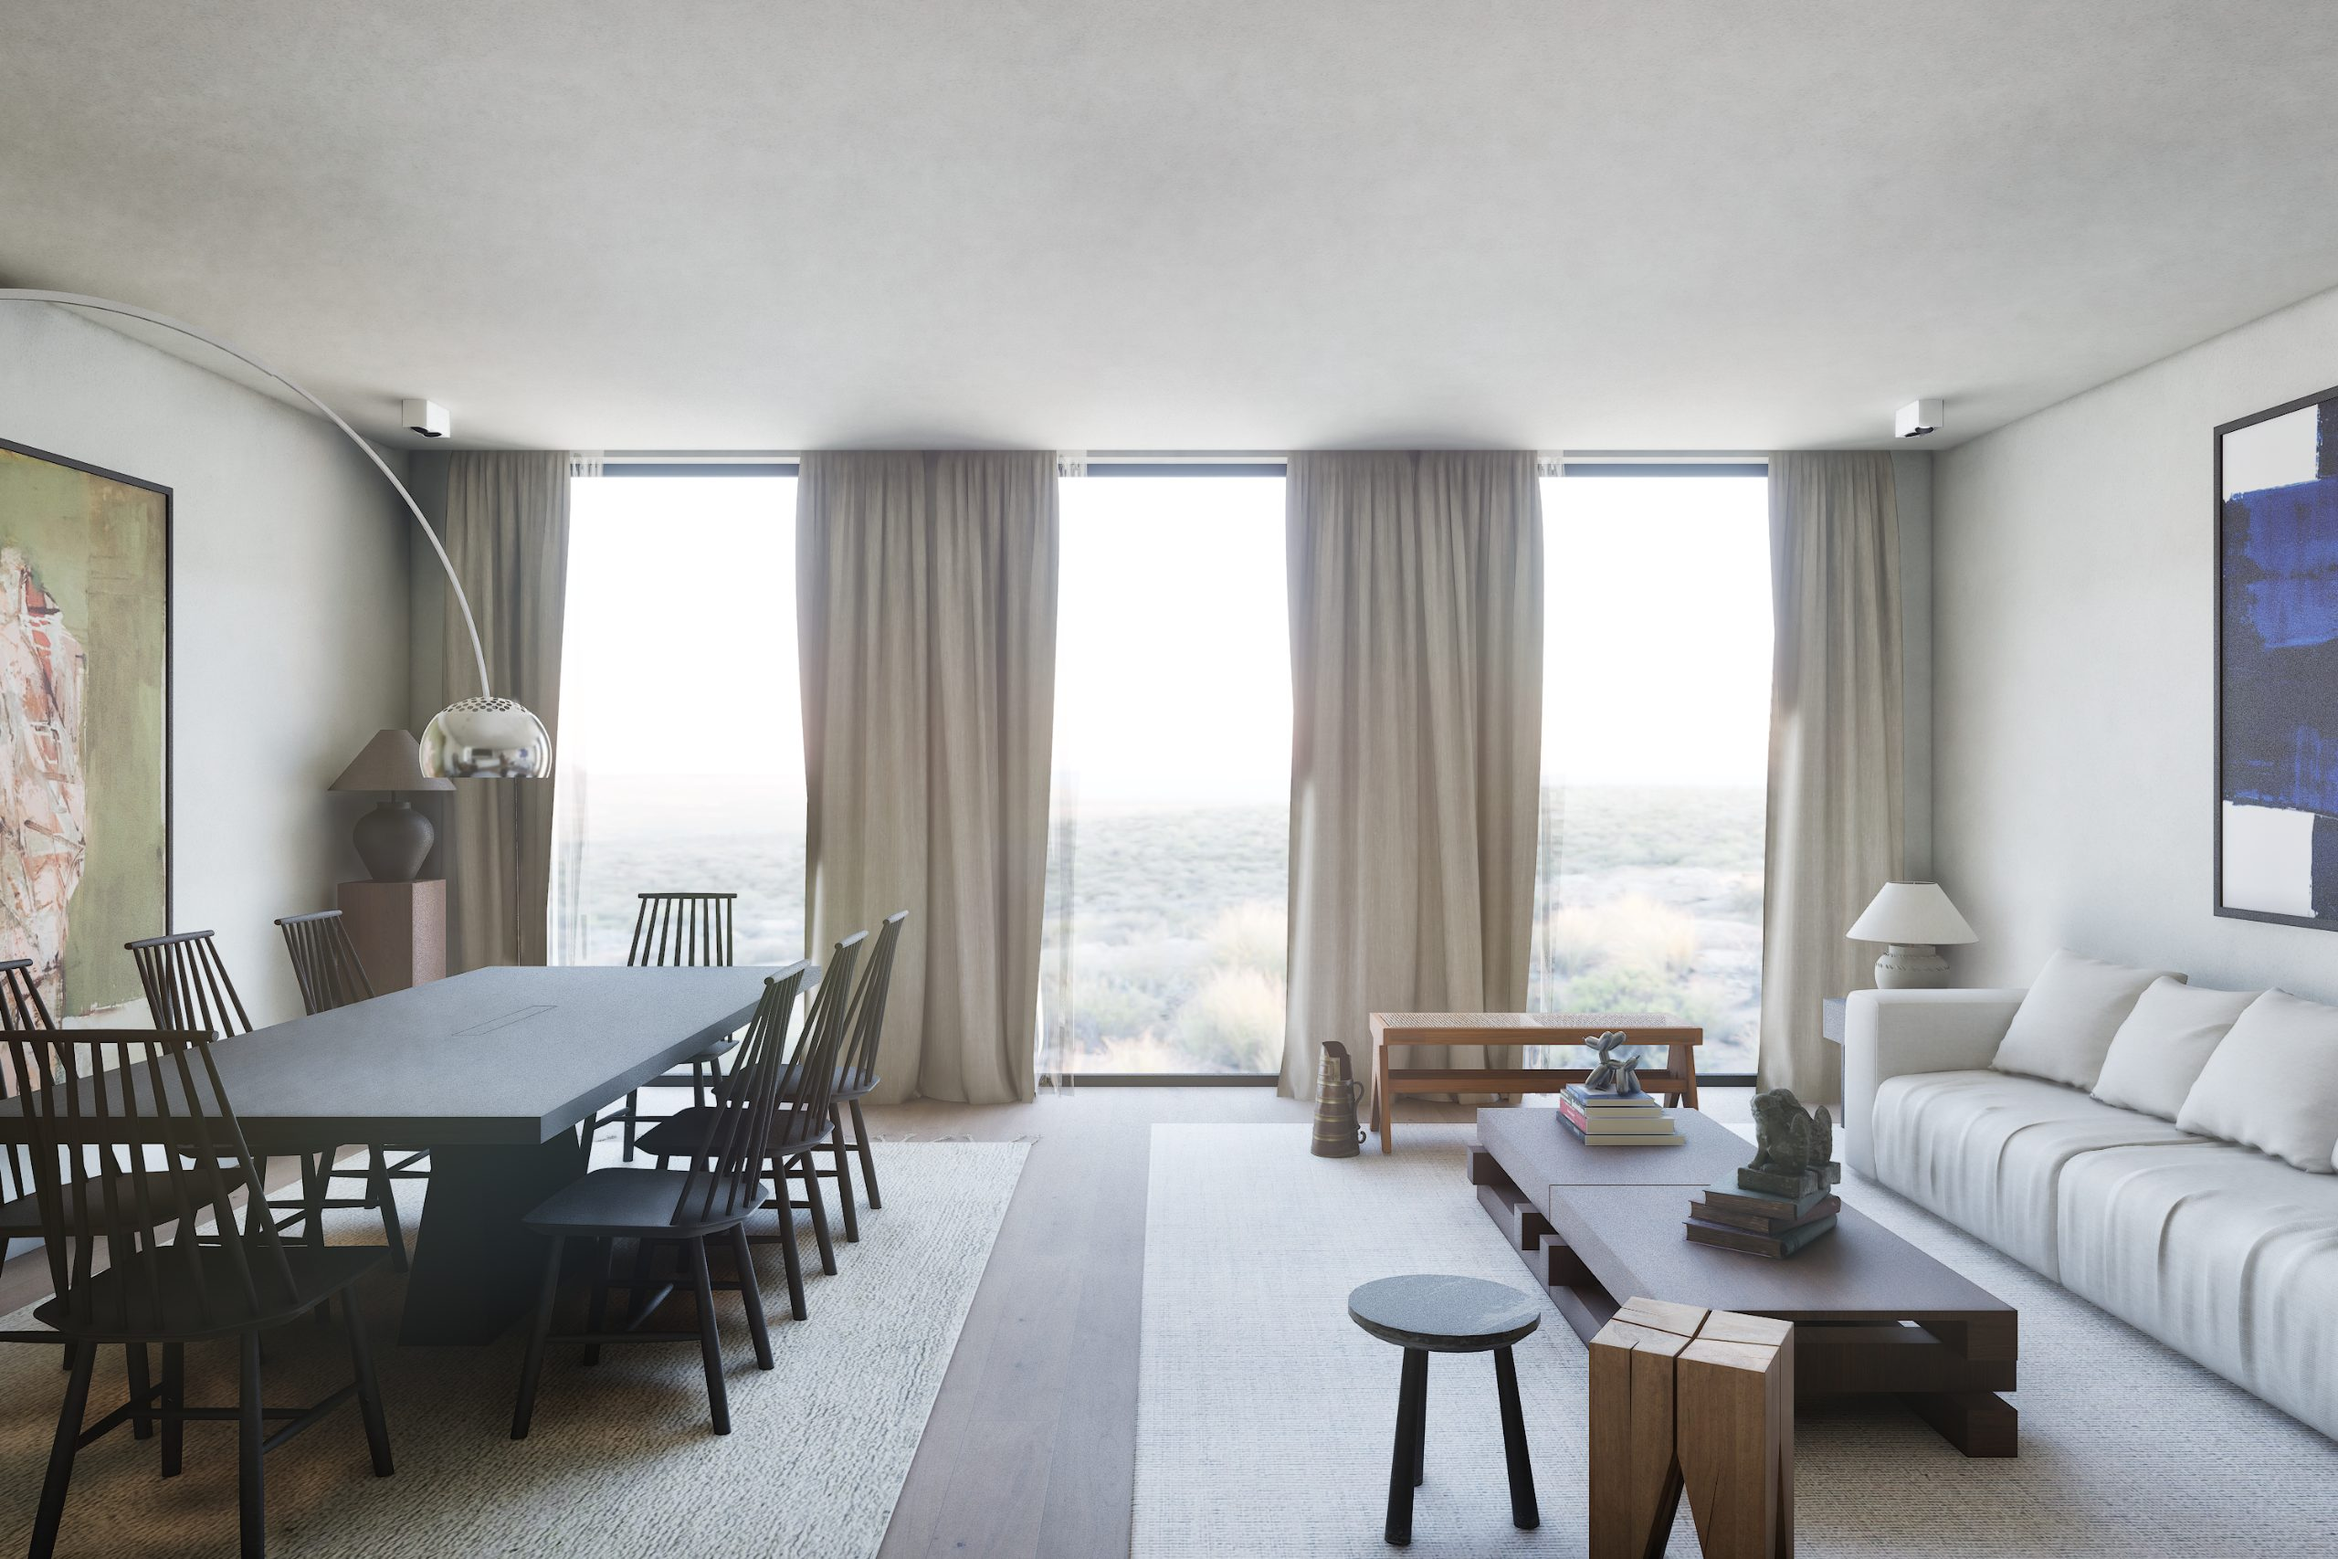
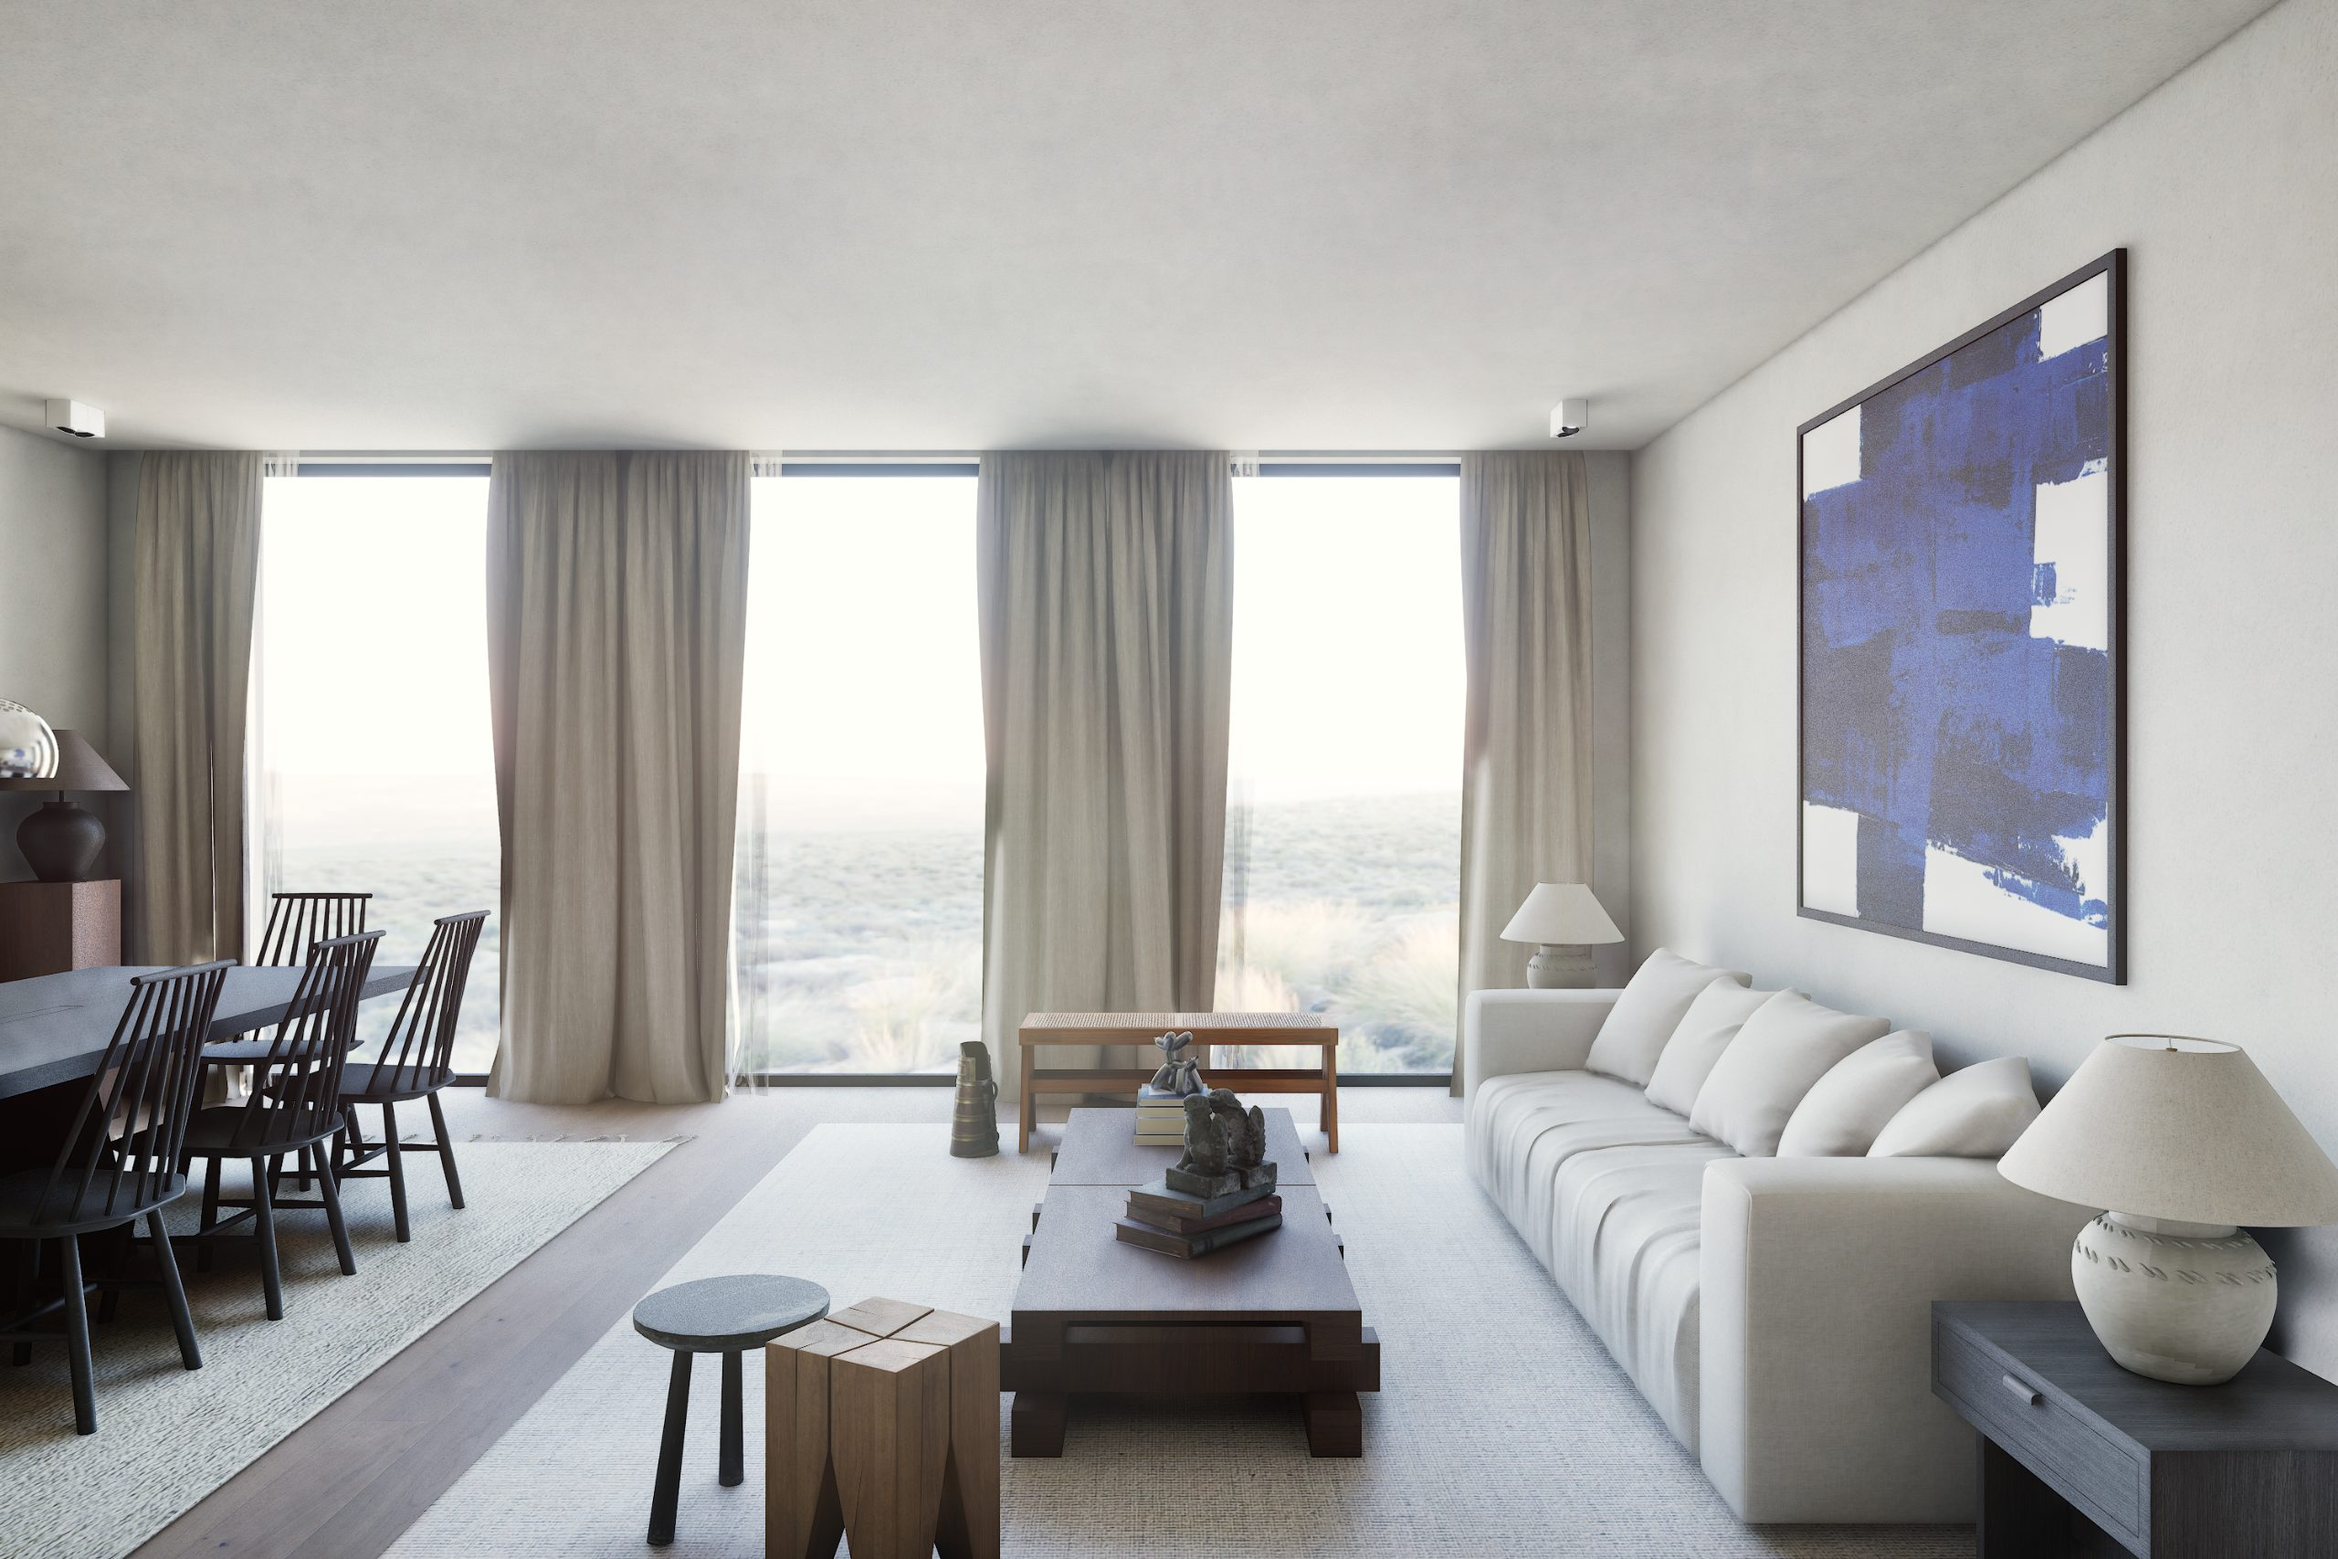
Add files via upload

diff --git a/en/work/ger.html b/en/work/ger.html
@@ -171,7 +171,7 @@
 
 <header class="proj-hero" data-screen-label="Ger, hero">
   <div class="frame">
-    <img src="../../images/ger-01.jpg" alt="Ger, dining table and lounge before floor-to-ceiling windows overlooking the landscape" loading="eager" fetchpriority="high" />
+    <img src="../../images/ger-01.jpg" alt="Ger, lounge and dining before floor-to-ceiling windows overlooking the landscape" loading="eager" fetchpriority="high" />
   </div>
   <div class="proj-hero__scrim"></div>
   <div class="proj-hero__cap">
@@ -203,26 +203,25 @@
 
   <section class="shell gallery">
     <div class="reveal">
-      <div class="frame g-full"><img src="../../images/ger-02.jpg" alt="Lounge with white sofa, solid timber coffee table and linen curtains" loading="lazy" /></div>
+      <div class="frame g-full"><img src="../../images/ger-02.jpg" alt="Lounge, frontal view, blue painting above the sofa, cane bench by the window" loading="lazy" /></div>
     </div>
     <div class="g-pair">
-      <div class="reveal"><div class="frame"><img src="../../images/ger-10.jpg" alt="Blue painting above the sofa, cane bench by the window" loading="lazy" /></div></div>
-      <div class="reveal d1"><div class="frame"><img src="../../images/ger-11.jpg" alt="Dark timber side table with ceramic lamp beside the sofa" loading="lazy" /></div></div>
+      <div class="reveal"><div class="frame"><img src="../../images/ger-06.jpg" alt="Dining table with black spindle chairs and arc lamp before a green painting" loading="lazy" /></div></div>
+      <div class="reveal d1"><div class="frame"><img src="../../images/ger-09.jpg" alt="Lounge seen at an angle from the side, blue painting above the sofa and light from the window" loading="lazy" /></div></div>
     </div>
     <div class="reveal">
-      <div class="frame g-full"><img src="../../images/ger-03.jpg" alt="Kitchen with island in pale travertine and tall cabinets in smoked oak" loading="lazy" /></div>
-    </div>
-    <div class="g-trio">
-      <div class="reveal"><div class="frame"><img src="../../images/ger-05.jpg" alt="Travertine island in front of the smoked oak cabinet wall" loading="lazy" /></div></div>
-      <div class="reveal d1"><div class="frame"><img src="../../images/ger-06.jpg" alt="Detail of the travertine sink with curved brushed steel tap" loading="lazy" /></div></div>
-      <div class="reveal d2"><div class="frame"><img src="../../images/ger-08.jpg" alt="Travertine island with cane chair and terracotta jars" loading="lazy" /></div></div>
-    </div>
-    <div class="reveal">
-      <div class="frame g-full"><img src="../../images/ger-04.jpg" alt="Lounge, frontal view, blue painting above the sofa" loading="lazy" /></div>
+      <div class="frame g-full"><img src="../../images/ger-03.jpg" alt="Kitchen, frontal view, with pale travertine island and tall smoked oak cabinets" loading="lazy" /></div>
     </div>
     <div class="g-pair">
-      <div class="reveal"><div class="frame"><img src="../../images/ger-07.jpg" alt="View from the coffee table towards the kitchen" loading="lazy" /></div></div>
-      <div class="reveal d1"><div class="frame"><img src="../../images/ger-09.jpg" alt="Dining table with black spindle chairs and arc lamp before a green painting" loading="lazy" /></div></div>
+      <div class="reveal"><div class="frame"><img src="../../images/ger-05.jpg" alt="Travertine island with tap in front of the smoked oak cabinet wall" loading="lazy" /></div></div>
+      <div class="reveal d1"><div class="frame"><img src="../../images/ger-10.jpg" alt="Travertine island looking towards the green painting and dining table" loading="lazy" /></div></div>
+    </div>
+    <div class="reveal">
+      <div class="frame g-full"><img src="../../images/ger-04.jpg" alt="Bedroom with dark oak display cabinet and linen curtains" loading="lazy" /></div>
+    </div>
+    <div class="g-pair">
+      <div class="reveal"><div class="frame"><img src="../../images/ger-08.jpg" alt="Bathroom with travertine vanity beneath a skylight" loading="lazy" /></div></div>
+      <div class="reveal d1"><div class="frame"><img src="../../images/ger-07.jpg" alt="Entrance with black and white artwork and dark oak bench" loading="lazy" /></div></div>
     </div>
   </section>
 

diff --git a/werk/ger.html b/werk/ger.html
@@ -171,7 +171,7 @@
 
 <header class="proj-hero" data-screen-label="Ger, hero">
   <div class="frame">
-    <img src="../images/ger-01.jpg" alt="Ger, eettafel en zithoek voor ramen van vloer tot plafond met zicht op het landschap" loading="eager" fetchpriority="high" />
+    <img src="../images/ger-01.jpg" alt="Ger, zithoek en eettafel voor ramen van vloer tot plafond met zicht op het landschap" loading="eager" fetchpriority="high" />
   </div>
   <div class="proj-hero__scrim"></div>
   <div class="proj-hero__cap">
@@ -203,26 +203,25 @@
 
   <section class="shell gallery">
     <div class="reveal">
-      <div class="frame g-full"><img src="../images/ger-02.jpg" alt="Zithoek met witte bank, massieve salontafel en linnen gordijnen" loading="lazy" /></div>
+      <div class="frame g-full"><img src="../images/ger-02.jpg" alt="Zithoek frontaal, blauw schilderij boven de bank, rieten bank aan het raam" loading="lazy" /></div>
     </div>
     <div class="g-pair">
-      <div class="reveal"><div class="frame"><img src="../images/ger-10.jpg" alt="Blauw schilderij boven de bank, rieten bank aan het raam" loading="lazy" /></div></div>
-      <div class="reveal d1"><div class="frame"><img src="../images/ger-11.jpg" alt="Bijzettafel in donker hout met keramieken lamp naast de bank" loading="lazy" /></div></div>
+      <div class="reveal"><div class="frame"><img src="../images/ger-06.jpg" alt="Eettafel met zwarte spijlenstoelen en booglamp voor een groen schilderij" loading="lazy" /></div></div>
+      <div class="reveal d1"><div class="frame"><img src="../images/ger-09.jpg" alt="Zithoek schuin van opzij, blauw schilderij boven de bank en licht van het raam" loading="lazy" /></div></div>
     </div>
     <div class="reveal">
-      <div class="frame g-full"><img src="../images/ger-03.jpg" alt="Keuken met eiland in licht travertijn en hoge kasten in gerookt eiken" loading="lazy" /></div>
-    </div>
-    <div class="g-trio">
-      <div class="reveal"><div class="frame"><img src="../images/ger-05.jpg" alt="Travertijnen eiland voor de kastenwand in gerookt eiken" loading="lazy" /></div></div>
-      <div class="reveal d1"><div class="frame"><img src="../images/ger-06.jpg" alt="Detail van de spoelbak in travertijn met gebogen kraan in geborsteld staal" loading="lazy" /></div></div>
-      <div class="reveal d2"><div class="frame"><img src="../images/ger-08.jpg" alt="Eiland in travertijn met rieten stoel en terracotta kruiken" loading="lazy" /></div></div>
-    </div>
-    <div class="reveal">
-      <div class="frame g-full"><img src="../images/ger-04.jpg" alt="Zithoek frontaal, blauw schilderij boven de bank" loading="lazy" /></div>
+      <div class="frame g-full"><img src="../images/ger-03.jpg" alt="Keuken frontaal met eiland in licht travertijn en hoge kasten in gerookt eiken" loading="lazy" /></div>
     </div>
     <div class="g-pair">
-      <div class="reveal"><div class="frame"><img src="../images/ger-07.jpg" alt="Doorkijk van de salontafel naar de keuken" loading="lazy" /></div></div>
-      <div class="reveal d1"><div class="frame"><img src="../images/ger-09.jpg" alt="Eettafel met zwarte spijlenstoelen en booglamp voor een groen schilderij" loading="lazy" /></div></div>
+      <div class="reveal"><div class="frame"><img src="../images/ger-05.jpg" alt="Travertijnen eiland met kraan voor de kastenwand in gerookt eiken" loading="lazy" /></div></div>
+      <div class="reveal d1"><div class="frame"><img src="../images/ger-10.jpg" alt="Travertijnen eiland met zicht op het groene schilderij en de eettafel" loading="lazy" /></div></div>
+    </div>
+    <div class="reveal">
+      <div class="frame g-full"><img src="../images/ger-04.jpg" alt="Slaapkamer met vitrinekast in donker eiken en linnen gordijnen" loading="lazy" /></div>
+    </div>
+    <div class="g-pair">
+      <div class="reveal"><div class="frame"><img src="../images/ger-08.jpg" alt="Badkamer met travertijnen wastafelmeubel onder een lichtstraat" loading="lazy" /></div></div>
+      <div class="reveal d1"><div class="frame"><img src="../images/ger-07.jpg" alt="Inkom met zwart-wit kunstwerk en bank in donker eiken" loading="lazy" /></div></div>
     </div>
   </section>
 

diff --git a/en/work.html b/en/work.html
@@ -215,7 +215,7 @@
 
     <a href="/en/work/ger" class="card reveal d1">
       <div class="card__frame">
-        <img src="../images/ger-09.jpg" alt="Ger, dining table with black spindle chairs and arc lamp before a green painting" loading="lazy" />
+        <img src="../images/ger-06.jpg" alt="Ger, dining table with black spindle chairs and arc lamp before a green painting" loading="lazy" />
       </div>
       <span class="card__title">Ger</span>
       <p class="card__desc">One open living space around a kitchen in pale travertine, with smoked oak, lime plaster and linen at the window.</p>

diff --git a/werk.html b/werk.html
@@ -215,7 +215,7 @@
 
     <a href="/werk/ger" class="card reveal d1">
       <div class="card__frame">
-        <img src="images/ger-09.jpg" alt="Ger, eettafel met zwarte spijlenstoelen en booglamp voor een groen schilderij" loading="lazy" />
+        <img src="images/ger-06.jpg" alt="Ger, eettafel met zwarte spijlenstoelen en booglamp voor een groen schilderij" loading="lazy" />
       </div>
       <span class="card__title">Ger</span>
       <p class="card__desc">Eén open leefruimte rond een keuken uit licht travertijn, met gerookt eiken, kalkpleister en linnen voor het raam.</p>
